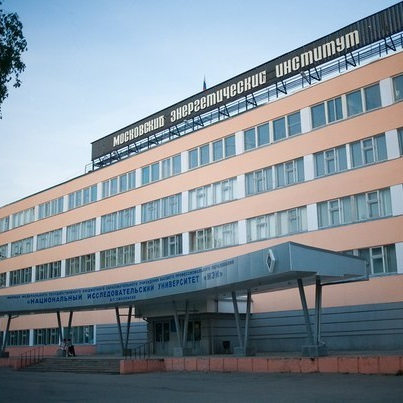
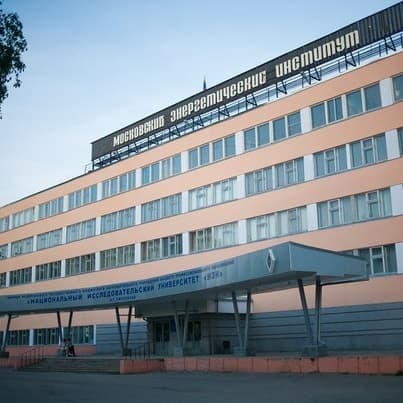
compress images

diff --git a/src/Main/Main.tsx b/src/Main/Main.tsx
@@ -9,7 +9,7 @@ import { ru } from '../translations/ru';
 
 const s = require('./Main.css')
 const avatar = require('../../assets/avatar.jpg')
-const csssrLogo = require('../../assets/csssr.png')
+const csssrLogo = require('../../assets/csssr.jpg')
 const spacetyLogo = require('../../assets/spacety.jpg')
 const sbmpeiLogo = require('../../assets/sbmpei.jpg')
 
